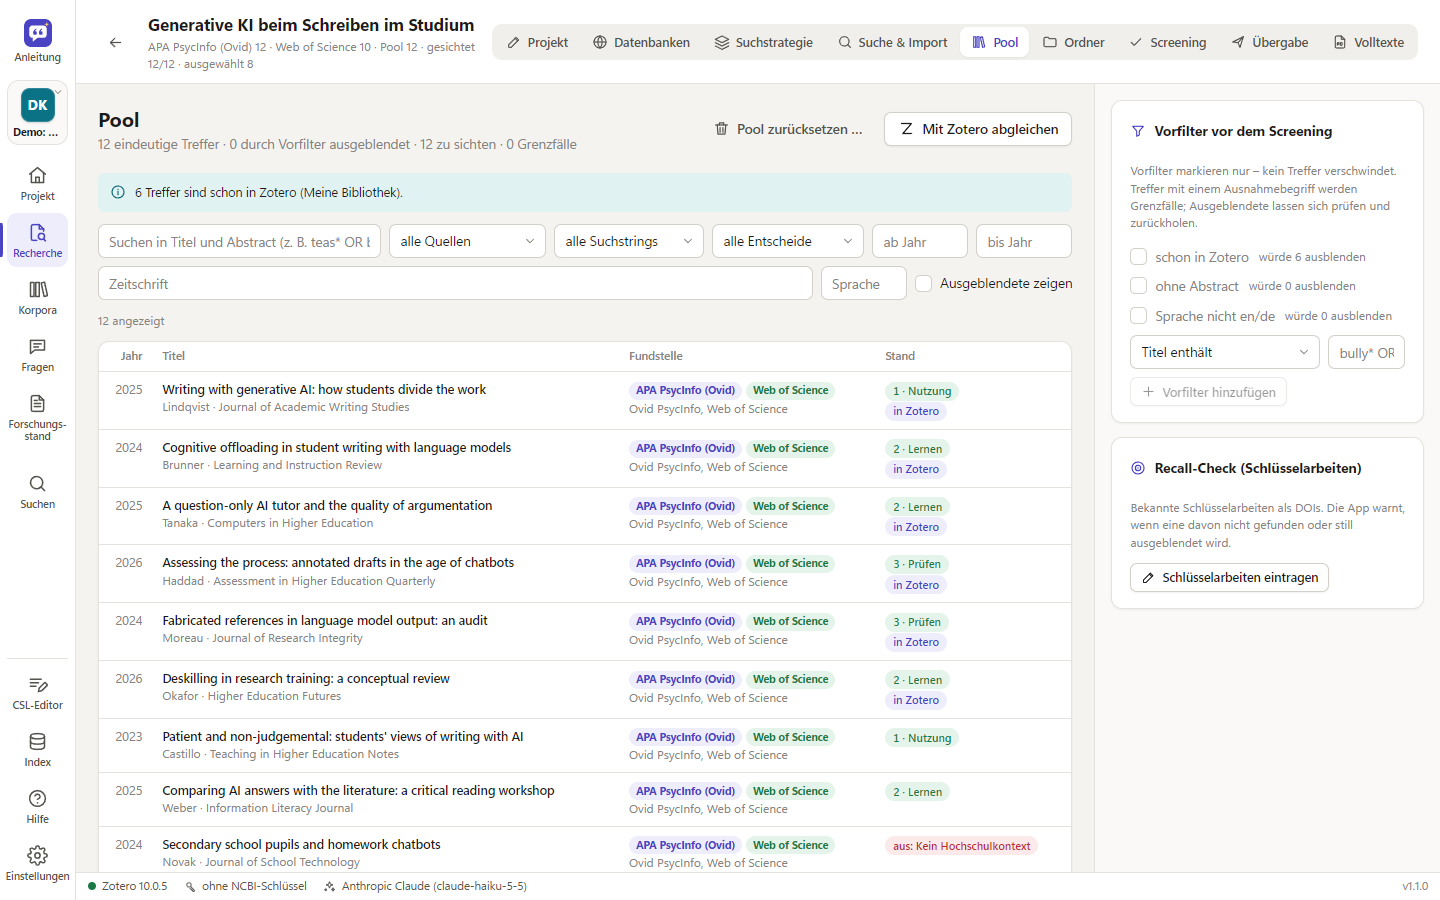
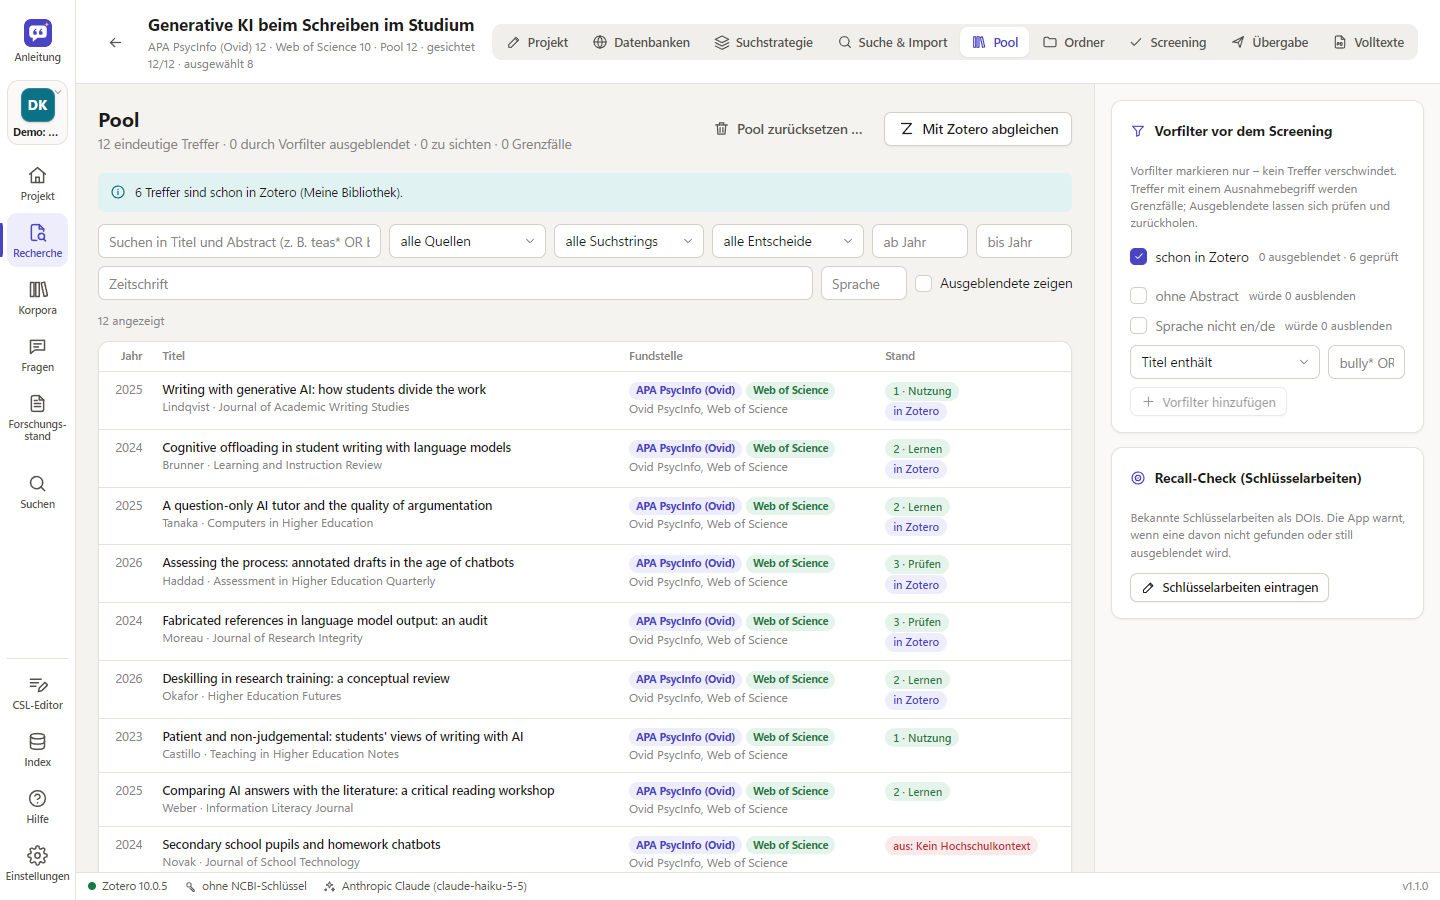
Database search: screened records stay visible after handover
The handover sets the Zotero key, so the default prefilter "already in
Zotero" hid records the user had already screened. The header then read
"screened 6/6, selected 8" and the included records vanished from the pool
and the screening lists. The prefilter now leaves screened records alone,
unless their exclusion was confirmed under "Review hidden records". The flow
diagram already counted this way. "To screen" in the pool header now counts
only open records.

Changed region(s): [[0.7812, 0.28, 0.9688, 0.6844], [0.2812, 0.1556, 0.4062, 0.1867]]

diff --git a/src/zotivity/server/static/js/views/research/pool.js b/src/zotivity/server/static/js/views/research/pool.js
@@ -377,7 +377,7 @@ export function poolTab() {
       h('div', { class: 'row wrap' },
         h('div', { class: 'grow' }, h('h2', null, t('Pool')),
           h('div', { class: 'muted' }, t('{n} eindeutige Treffer · {h} durch Vorfilter ausgeblendet · {v} zu sichten · {b} Grenzfälle',
-            { n: fmtInt(pool.total), h: fmtInt(pool.hidden), v: fmtInt(pool.total - pool.hidden), b: fmtInt(sum.borderline || 0) }))),
+            { n: fmtInt(pool.total), h: fmtInt(pool.hidden), v: fmtInt((sum.visible || 0) - (sum.screened || 0)), b: fmtInt(sum.borderline || 0) }))),
         pool.total ? btn(t('Pool zurücksetzen …'), { icon: 'trash', kind: 'ghost', busy: isBusy('reset-pool'), onClick: () => resetPool(pool),
           title: t('Alle Treffer und Entscheide löschen, um neu zu suchen') }) : null,
         btn(t('Mit Zotero abgleichen'), { icon: 'zotero', busy: isBusy('zotero-match'), onClick: zoteroMatch,

diff --git a/tests/research/test_research_pool_screening.py b/tests/research/test_research_pool_screening.py
@@ -86,6 +86,45 @@ def test_prefilters_and_zotero_match(service, zotero):
     assert service.summary(pid)["visible"] == 1
 
 
+def test_handed_over_records_stay_visible(service):
+    """Die Übergabe setzt den Zotero-Schlüssel – das darf gesichtete Treffer nicht nachträglich ausblenden."""
+    pid = make_project(service)["id"]
+    run = service.store.add_run(pid, kind="import", source="ris")
+    service.store.add_records(pid, run, [{"title": f"Record number {i} about online conflict", "abstract": "a" * 60} for i in range(4)])
+    ids = [it["id"] for it in service.queue(pid)["items"]]
+    service.decide(pid, ids[0], "include", 2)
+    service.decide(pid, ids[1], "exclude", reason="Cyberbullying")
+    service.store.add_link(pid, ids[0], "users/0", "K0", "COLL", "created")
+    s = service.summary(pid)
+    assert (s["visible"], s["screened"], s["included"], s["hidden"]) == (4, 2, 1, 0)
+    assert [it["id"] for it in service.queue(pid, "include")["items"]] == [ids[0]]
+    assert service.pool(pid)["hidden"] == 0
+
+    # Noch nicht gesichtet und schon in Zotero: Das blendet der Vorfilter weiter aus
+    service.store.add_link(pid, ids[2], "users/0", "K2", "COLL", "added")
+    s = service.summary(pid)
+    assert (s["visible"], s["screened"], s["hidden"]) == (3, 2, 1)
+
+    # Abgeschaltet nennt er nur, was er tatsächlich ausblenden würde, nicht die gesichteten Treffer
+    p = service.get_project(pid)
+    off = [{**f, "active": False} if f["kind"] == "in_zotero" else f for f in p["prefilters"]]
+    service.update_project(pid, {"prefilters": off})
+    assert next(f for f in service.pool(pid)["prefilters"] if f["kind"] == "in_zotero")["count"] == 1
+    service.update_project(pid, {"prefilters": p["prefilters"]})
+
+    # Ein über „Ausgeblendete prüfen“ bestätigter Ausschluss bleibt ausgeblendet
+    service.review(pid, [ids[2]], "exclude")
+    assert service.store.current_decision(pid, ids[2])["status"] == "exclude"
+    assert service.summary(pid)["hidden"] == 1
+
+    # Rückgängig: wieder offen und in Zotero, also wieder ausgeblendet
+    service.store.add_link(pid, ids[3], "users/0", "K3", "COLL", "added")
+    service.decide(pid, ids[3], "include", 2)
+    assert ids[3] not in [it["id"] for it in service.pool(pid, status="hidden")["items"]]
+    service.undo(pid)
+    assert ids[3] in [it["id"] for it in service.pool(pid, status="hidden")["items"]]
+
+
 def test_screening_decide_and_undo(service):
     pid = make_project(service)["id"]
     run = service.store.add_run(pid, kind="import", source="ris")

diff --git a/src/zotivity/research/service.py b/src/zotivity/research/service.py
@@ -14,7 +14,7 @@ from . import export as export_mod
 from . import protocol
 from .errors import NotFound, ResearchError, SourceError, ZoteroWriteRefused
 from .http import Http
-from .pool import DEFAULT_PREFILTERS, exception_hit, filter_pool, matches, status_of, summarize, with_ids
+from .pool import DEFAULT_PREFILTERS, evaluate, filter_pool, status_of, summarize, with_ids
 from .ports import KEY_NCBI, KEY_OPENALEX, KEY_SEMANTICSCHOLAR, KEY_ZOTERO_WEB, ChatModel, KeyStore, ZoteroPort
 from .querybuild import TRANSLATABLE, build_all, clean_terms, parse_pubmed
 from .querybuild import translate as translate_query_string
@@ -408,9 +408,11 @@ class ResearchService:
         items, prefilters = self._pool_items(pid, p)
         stats = self.rule_stats(prefilters, items)
         records = self._records(pid)
+        reviews = self.store.reviews(pid)
         for f in prefilters:  # abgeschaltete Regel: wie viele sie ausblenden würde
             if not f.get("active"):
-                stats[f["id"]]["hidden"] = sum(1 for rec in records if matches(f, rec) and not exception_hit(f, rec))
+                on = {**f, "active": True}
+                stats[f["id"]]["hidden"] = sum(1 for rec in records if evaluate([on], rec, reviews.get(rec["id"]))["hidden"])
         shown = filter_pool(items, **{k: v for k, v in filters.items() if v not in (None, "")})
         return {"items": shown, "total": len(items), "hidden": sum(1 for it in items if it["hidden_by"]),
                 "prefilters": [{**f, **stats.get(f["id"], {}), "count": stats.get(f["id"], {}).get("hidden", 0)}

diff --git a/src/zotivity/research/pool.py b/src/zotivity/research/pool.py
@@ -157,6 +157,8 @@ def evaluate(prefilters: list[dict], rec: dict, reviews: dict[str, str] | None =
                                "strength": STRENGTH[exc["where"]]})
         elif reviews.get(f["id"]) in ("restore", "borderline"):
             continue  # geprüft und zurückgeholt
+        elif f.get("kind") == "in_zotero" and reviews.get(f["id"]) != "exclude" and (rec.get("decision") or {}).get("status", "open") != "open":
+            continue  # selbst gesichtet: Oft ist der Treffer erst durch die Übergabe in Zotero
         else:
             hidden.append(f["id"])
     return {"matched": matched, "hidden": hidden, "borderline": borderline}
